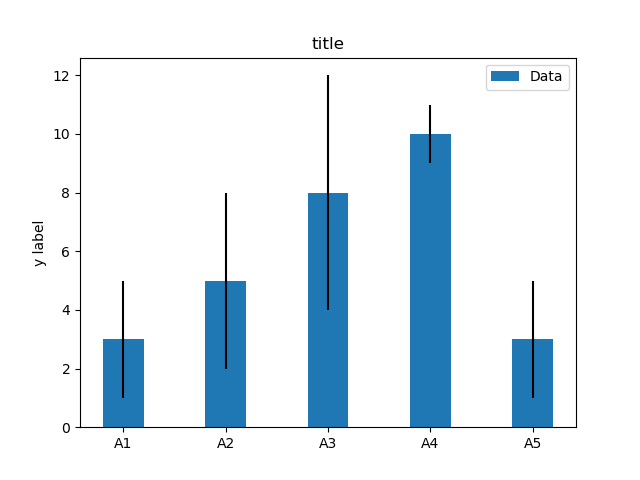
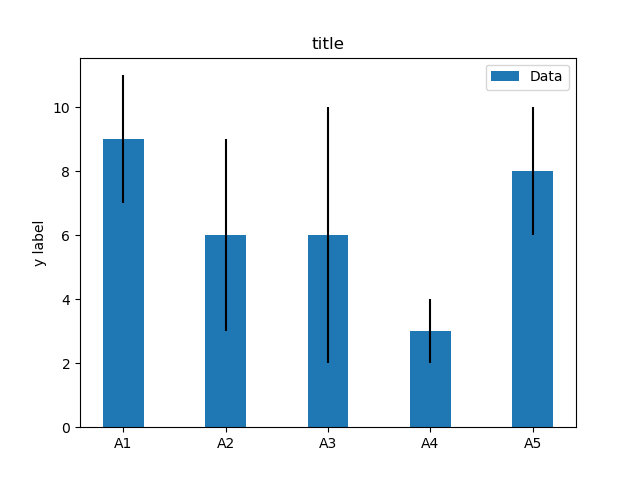
first commit

diff --git a/example.py b/example.py
@@ -2,7 +2,7 @@ import numpy as np
 import matplotlib.pyplot as plt
 
 labels = ['A1', 'A2', 'A3', 'A4', 'A5']
-m_means = [3,5,8,10,3]
+m_means = [9,6,6,3,8]
 m_std = [2, 3, 4, 1, 2]
 width = 0.40       # the width of the bars
 

diff --git a/README.md b/README.md
@@ -1,4 +1,4 @@
-# Matplotlib no 271 
+# Matplotlib no 272 
 
 python example
 
